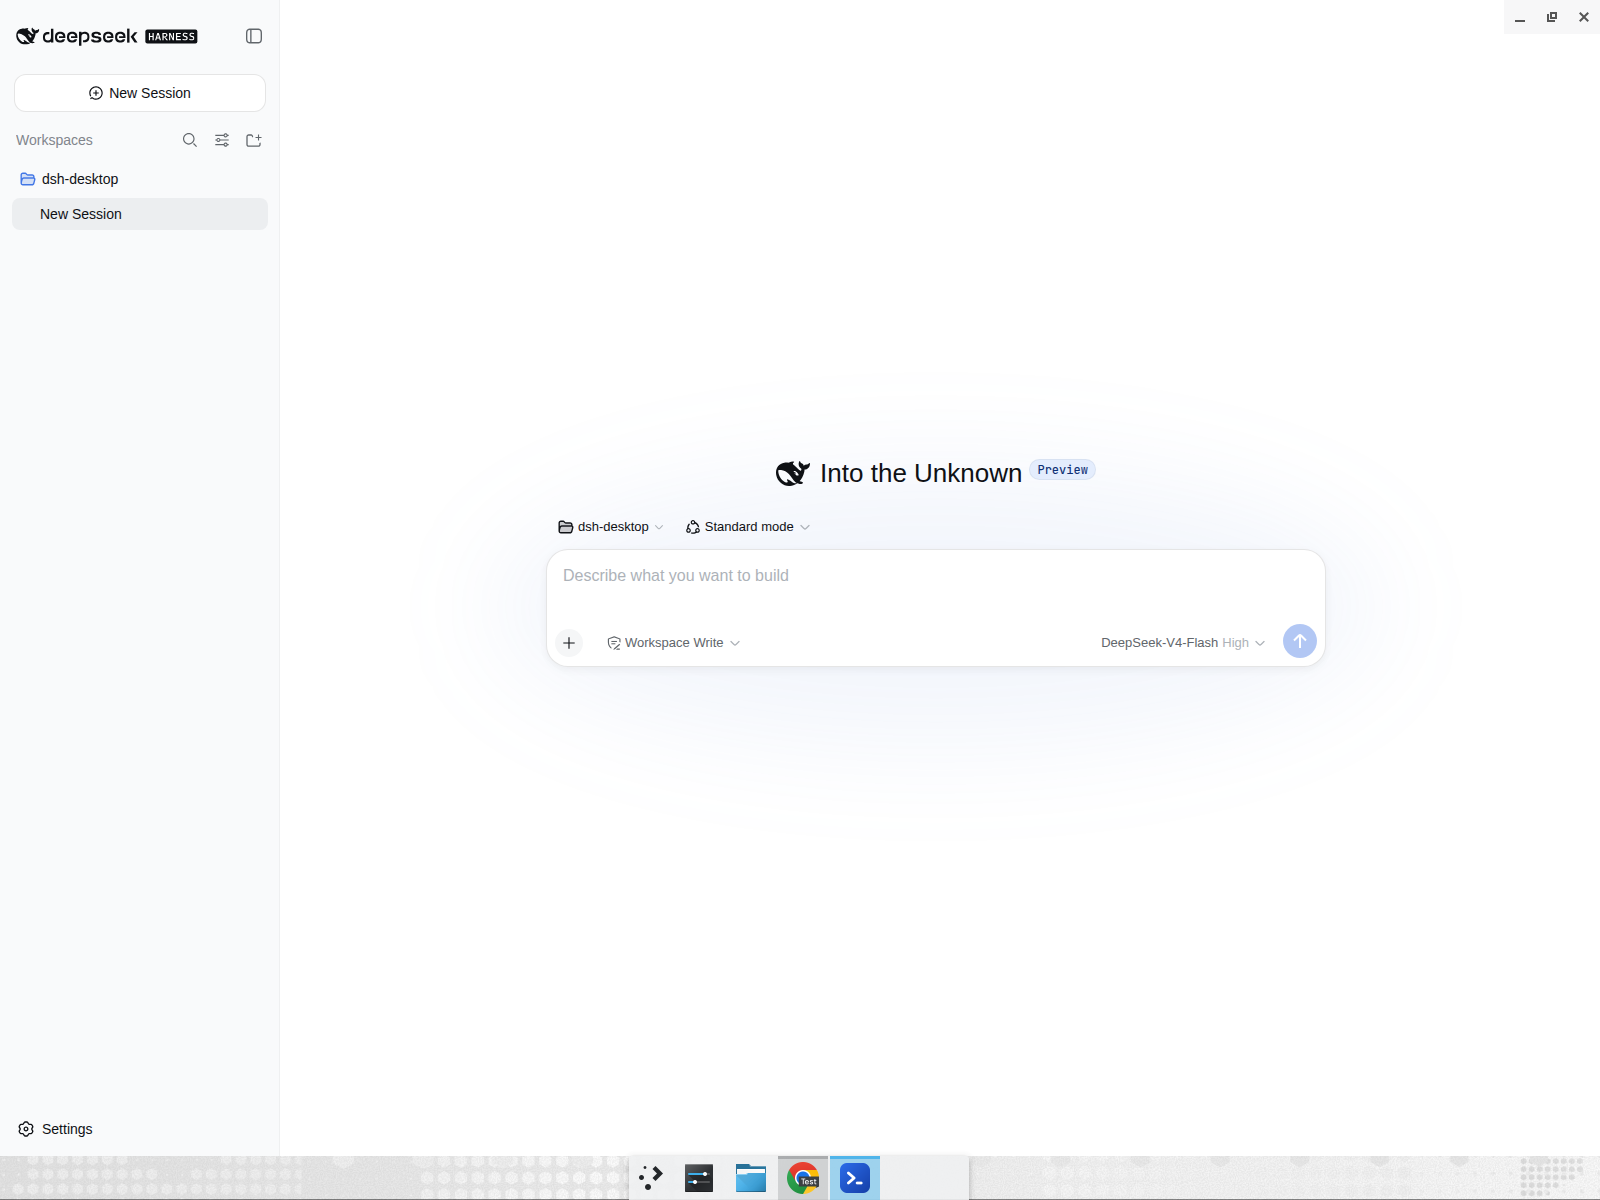
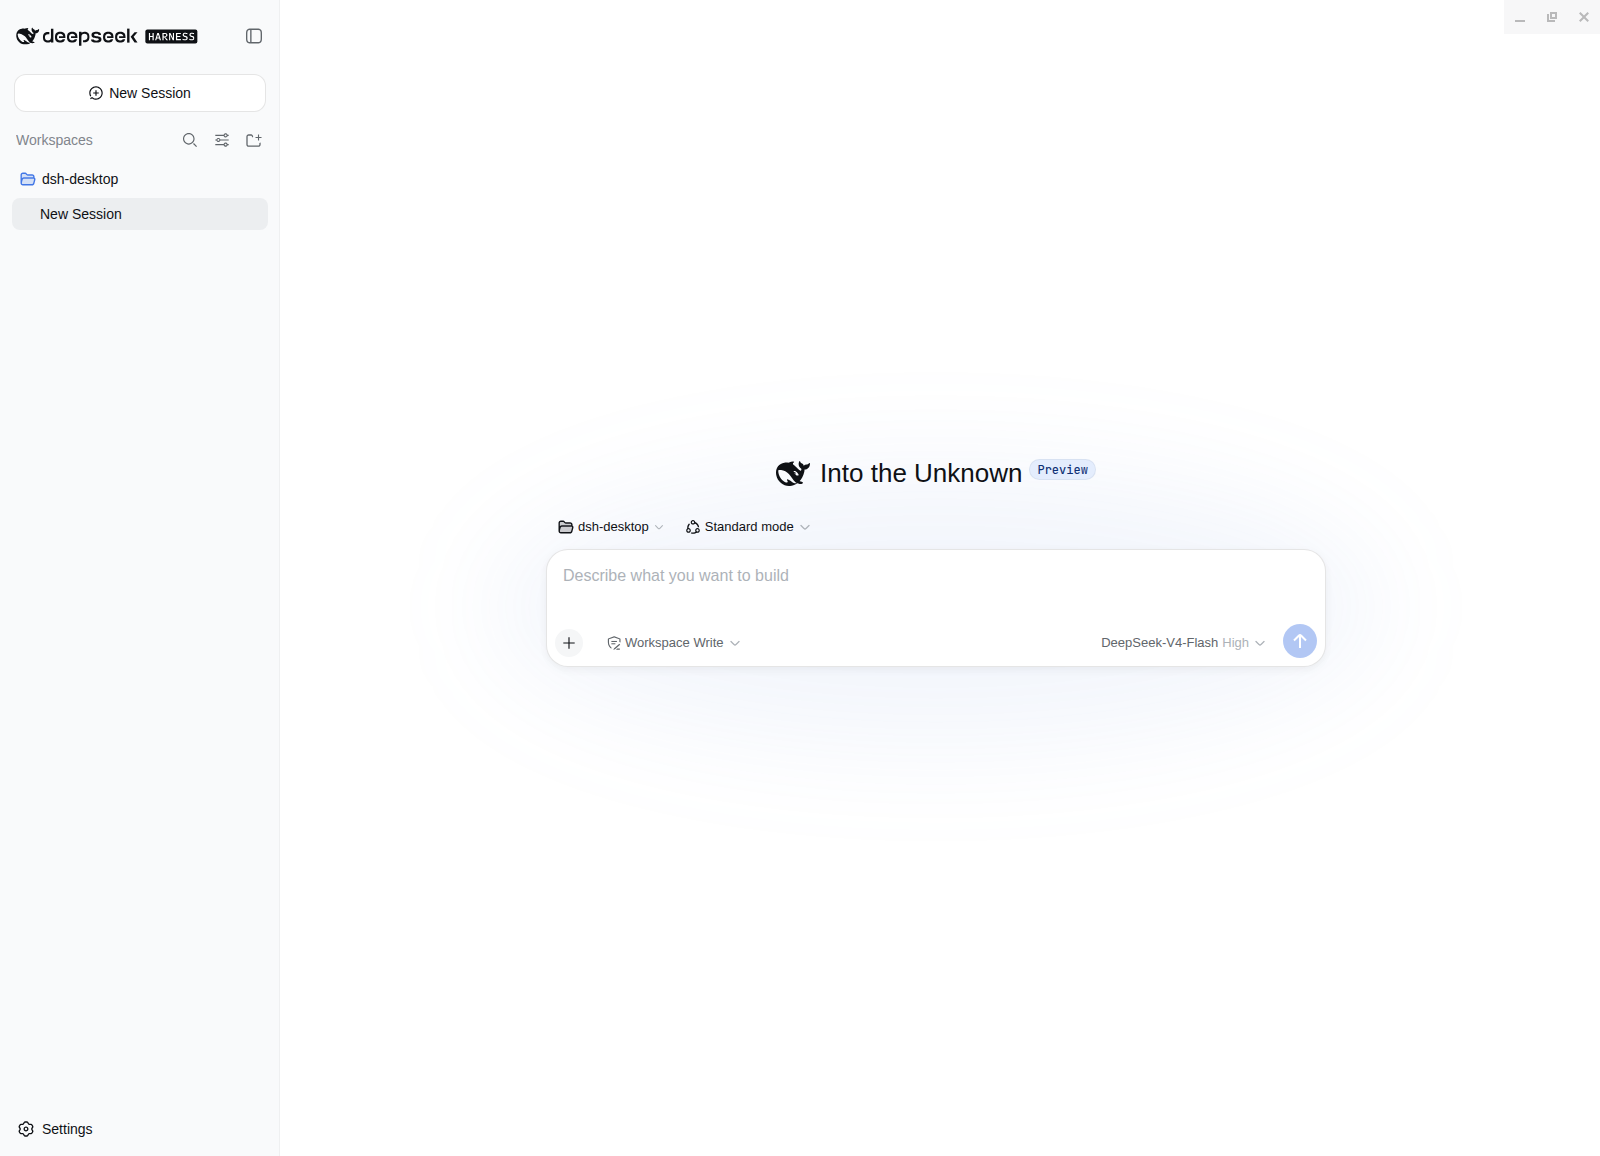
Add console log viewer window; borderless screenshots in README

diff --git a/src/main.js b/src/main.js
@@ -17,6 +17,7 @@ const isMac = process.platform === 'darwin'
 let setupWin = null
 let mainWin = null
 let settingsWin = null
+let logsWin = null
 let tray = null
 let serverProc = null
 let serverPort = null
@@ -69,6 +70,7 @@ function writeState(state) {
   fs.writeFileSync(statePath(), JSON.stringify(state, null, 2))
 }
 
+const LOG_LIMIT = 5000
 const logBuffer = []
 let lastStatus = '正在准备...'
 let lastStep = 0
@@ -91,9 +93,14 @@ function setProgress(pct) {
 
 function log(message) {
   console.log('[dsh-desktop]', message)
-  logBuffer.push(message)
+  const line = `[${new Date().toLocaleTimeString('en-GB')}] ${message}`
+  logBuffer.push(line)
+  if (logBuffer.length > LOG_LIMIT) logBuffer.splice(0, logBuffer.length - LOG_LIMIT)
   if (setupWin && !setupWin.isDestroyed()) {
     setupWin.webContents.send('setup-log', message)
+  }
+  if (logsWin && !logsWin.isDestroyed()) {
+    logsWin.webContents.send('app-log', line)
   }
 }
 
@@ -527,6 +534,30 @@ function createSettingsWindow() {
   })
 }
 
+function createLogsWindow() {
+  if (logsWin && !logsWin.isDestroyed()) {
+    logsWin.show()
+    logsWin.focus()
+    return
+  }
+  logsWin = new BrowserWindow({
+    width: 860,
+    height: 620,
+    icon: path.join(__dirname, 'icon.png'),
+    autoHideMenuBar: true,
+    webPreferences: {
+      preload: path.join(__dirname, 'preload.js'),
+      contextIsolation: true,
+      nodeIntegration: false,
+    },
+  })
+  logsWin.setMenuBarVisibility(false)
+  logsWin.loadFile(path.join(__dirname, 'logs.html'))
+  logsWin.on('closed', () => {
+    logsWin = null
+  })
+}
+
 function sendUpdateEvent(payload) {
   for (const win of [settingsWin, setupWin]) {
     if (win && !win.isDestroyed()) win.webContents.send('update-event', payload)
@@ -570,6 +601,7 @@ function createTray() {
       { label: '显示主窗口', click: showMainWindow },
       { label: '设置', click: createSettingsWindow },
       { label: '检查 dsh 更新', click: () => manualDshUpdate() },
+      { label: '查看控制台日志', click: createLogsWindow },
       { label: '在浏览器中打开', click: () => shell.openExternal(`http://127.0.0.1:${serverPort}/`) },
       { type: 'separator' },
       {
@@ -649,6 +681,18 @@ ipcMain.handle('set-settings', (_e, settings) => {
 })
 ipcMain.handle('manual-update', () => manualDshUpdate())
 ipcMain.handle('open-data-dir', () => shell.openPath(userDir()))
+ipcMain.handle('open-logs', () => createLogsWindow())
+ipcMain.handle('get-logs', () => logBuffer.slice())
+ipcMain.handle('export-logs', async () => {
+  const { canceled, filePath } = await dialog.showSaveDialog(logsWin, {
+    title: '导出日志',
+    defaultPath: path.join(app.getPath('downloads'), `dsh-desktop-${Date.now()}.log`),
+    filters: [{ name: 'Log', extensions: ['log', 'txt'] }],
+  })
+  if (canceled || !filePath) return { status: 'canceled' }
+  fs.writeFileSync(filePath, logBuffer.join('\n') + '\n')
+  return { status: 'saved', filePath }
+})
 
 app.on('before-quit', () => {
   quitting = true

diff --git a/src/logs.html b/src/logs.html
@@ -1,0 +1,58 @@
+<!DOCTYPE html>
+<html lang="zh-CN">
+<head>
+  <meta charset="UTF-8" />
+  <meta http-equiv="Content-Security-Policy" content="default-src 'self'; style-src 'unsafe-inline'; img-src 'self'" />
+  <title>控制台日志 — DSH Desktop</title>
+  <style>
+    :root { --accent: #2B6CEA; }
+    body {
+      margin: 0;
+      font-family: -apple-system, "Segoe UI", "PingFang SC", "Microsoft YaHei", sans-serif;
+      background: #0d1117;
+      color: #e6edf3;
+      display: flex;
+      flex-direction: column;
+      height: 100vh;
+    }
+    .toolbar {
+      display: flex;
+      align-items: center;
+      gap: 10px;
+      padding: 12px 16px;
+      border-bottom: 1px solid #21262d;
+      flex: none;
+    }
+    .toolbar h1 { font-size: 15px; margin: 0 auto 0 0; font-weight: 600; }
+    button {
+      background: #21262d; color: #e6edf3; border: 1px solid #30363d; border-radius: 8px;
+      padding: 6px 14px; font-size: 13px; cursor: pointer;
+    }
+    button:hover { filter: brightness(1.2); }
+    button.primary { background: var(--accent); border-color: var(--accent); color: #fff; }
+    #status { font-size: 12px; color: #8b949e; }
+    #log {
+      flex: 1;
+      overflow: auto;
+      margin: 0;
+      padding: 12px 16px;
+      font-family: ui-monospace, "SF Mono", Consolas, Menlo, monospace;
+      font-size: 12px;
+      line-height: 1.7;
+      white-space: pre-wrap;
+      word-break: break-all;
+      user-select: text;
+    }
+  </style>
+</head>
+<body>
+  <div class="toolbar">
+    <h1>控制台日志</h1>
+    <span id="status"></span>
+    <button id="copyBtn">复制全部</button>
+    <button id="exportBtn" class="primary">导出日志</button>
+  </div>
+  <pre id="log"></pre>
+  <script src="logs.js"></script>
+</body>
+</html>

diff --git a/src/logs.js b/src/logs.js
@@ -1,0 +1,32 @@
+'use strict'
+
+const logEl = document.getElementById('log')
+const statusEl = document.getElementById('status')
+
+function atBottom() {
+  return logEl.scrollHeight - logEl.scrollTop - logEl.clientHeight < 40
+}
+
+function append(line) {
+  const stick = atBottom()
+  logEl.textContent += line + '\n'
+  if (stick) logEl.scrollTop = logEl.scrollHeight
+}
+
+window.dshDesktop.getLogs().then((lines) => {
+  logEl.textContent = lines.join('\n') + (lines.length ? '\n' : '')
+  logEl.scrollTop = logEl.scrollHeight
+})
+
+window.dshDesktop.onAppLog(append)
+
+document.getElementById('copyBtn').addEventListener('click', async () => {
+  await navigator.clipboard.writeText(logEl.textContent)
+  statusEl.textContent = '已复制到剪贴板'
+  setTimeout(() => (statusEl.textContent = ''), 2000)
+})
+
+document.getElementById('exportBtn').addEventListener('click', async () => {
+  const result = await window.dshDesktop.exportLogs()
+  if (result.status === 'saved') statusEl.textContent = `已导出：${result.filePath}`
+})

diff --git a/src/preload.js b/src/preload.js
@@ -13,4 +13,8 @@ contextBridge.exposeInMainWorld('dshDesktop', {
   setSettings: (settings) => ipcRenderer.invoke('set-settings', settings),
   manualUpdate: () => ipcRenderer.invoke('manual-update'),
   openDataDir: () => ipcRenderer.invoke('open-data-dir'),
+  openLogs: () => ipcRenderer.invoke('open-logs'),
+  getLogs: () => ipcRenderer.invoke('get-logs'),
+  exportLogs: () => ipcRenderer.invoke('export-logs'),
+  onAppLog: (cb) => ipcRenderer.on('app-log', (_e, line) => cb(line)),
 })

diff --git a/src/settings.html b/src/settings.html
@@ -110,6 +110,7 @@
     <div class="actions">
       <button id="updateBtn">立即检查并更新 dsh</button>
       <button id="dataDirBtn" class="secondary">打开数据目录</button>
+      <button id="logsBtn" class="secondary">查看控制台日志</button>
     </div>
     <div class="bar-wrap" id="updateBarWrap"><div id="updateBar"></div></div>
     <div id="updateStatus"></div>

diff --git a/src/settings.js b/src/settings.js
@@ -18,6 +18,8 @@ for (const k of keys) {
 
 $('dataDirBtn').addEventListener('click', () => window.dshDesktop.openDataDir())
 
+$('logsBtn').addEventListener('click', () => window.dshDesktop.openLogs())
+
 function setUpdateStatus(text, kind) {
   const el = $('updateStatus')
   el.textContent = text

diff --git a/README.md b/README.md
@@ -16,9 +16,13 @@
 
 ![主窗口 / Main window](assets/main-window.png)
 
-设置与手动更新（开机自启、最小化到托盘、自动更新、检查并更新 dsh、打开数据目录） / Settings & manual update:
+设置与手动更新（开机自启、最小化到托盘、自动更新、检查并更新 dsh、打开数据目录、查看日志） / Settings & manual update:
 
 ![设置 / Settings](assets/settings.png)
+
+控制台日志（实时查看、复制、导出） / Console logs (live view, copy, export):
+
+![控制台日志 / Console logs](assets/logs.png)
 
 ---
 
@@ -39,6 +43,7 @@
 - **无干扰界面**：主窗口无标题栏、无菜单栏/工具条（沉浸式窗口，保留原生窗口控制按钮），并记住窗口大小、位置和最大化状态。
 - **系统托盘**：关闭窗口可最小化到托盘继续运行（首次会有系统通知提示），托盘菜单支持显示窗口、设置、检查更新、在浏览器中打开和退出。
 - **系统设置**：开机自动启动、关闭窗口时最小化到托盘、启动时自动更新 dsh，均可在设置窗口中开关；可一键打开数据目录。
+- **控制台日志**：设置或托盘菜单可打开日志窗口，实时查看应用与 dsh 服务运行日志，支持一键复制和导出到文件。
 - **更新**：手动点击「立即检查并更新 dsh」后台执行安装并自动重启服务；开启自动更新后每次启动自动升级 `@deepseek-ai/dsh`；应用本身通过 GitHub Releases 自动更新（electron-updater）。
 
 ## 下载安装
@@ -84,6 +89,7 @@ An unofficial desktop app for [DeepSeek Harness (dsh)](https://github.com/deepse
 - **Distraction-free UI**: frameless main window with no title bar, menu bar, or toolbar (native window controls kept); window size, position, and maximized state are remembered.
 - **System tray**: closing the window can minimize to tray and keep the service running (a one-time system notification explains this); the tray menu supports show window, settings, check for updates, open in browser, and quit.
 - **System settings**: launch at login, minimize to tray on close, and auto-update dsh on startup — all toggleable in the settings window; one click opens the data directory.
+- **Console logs**: open the log window from settings or the tray menu to watch app and dsh service logs live, with one-click copy and export to file.
 - **Updates**: manual "Check and update dsh" runs the install in the background and restarts the service; when auto-update is on, `@deepseek-ai/dsh` is upgraded on every launch; the app itself auto-updates via GitHub Releases (electron-updater).
 
 ## Download
